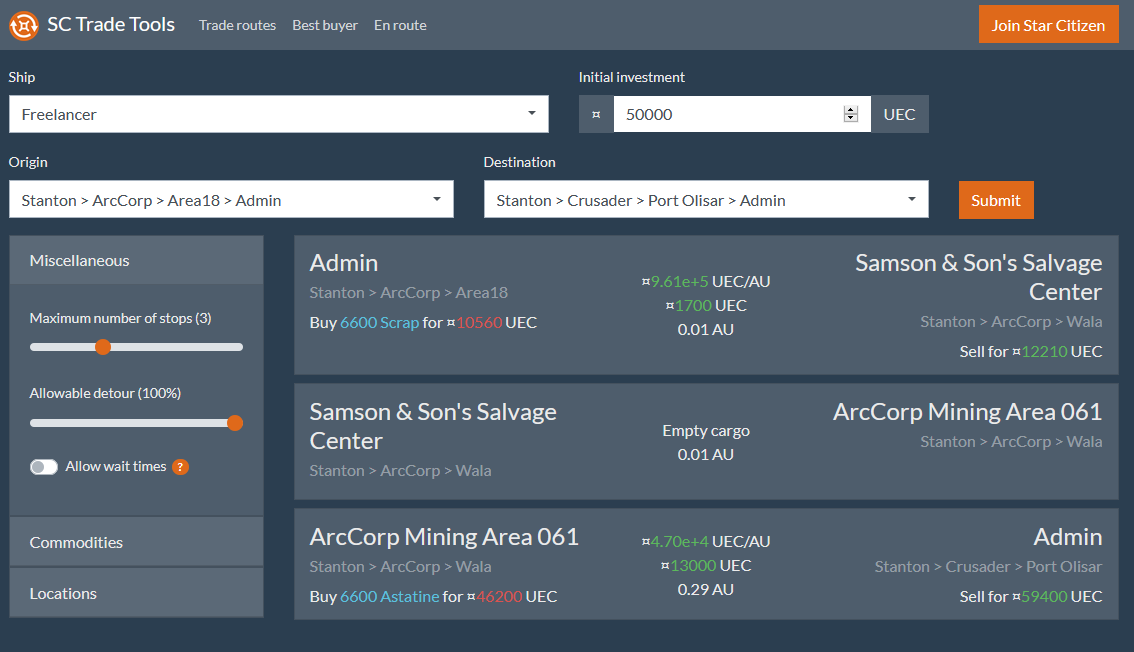
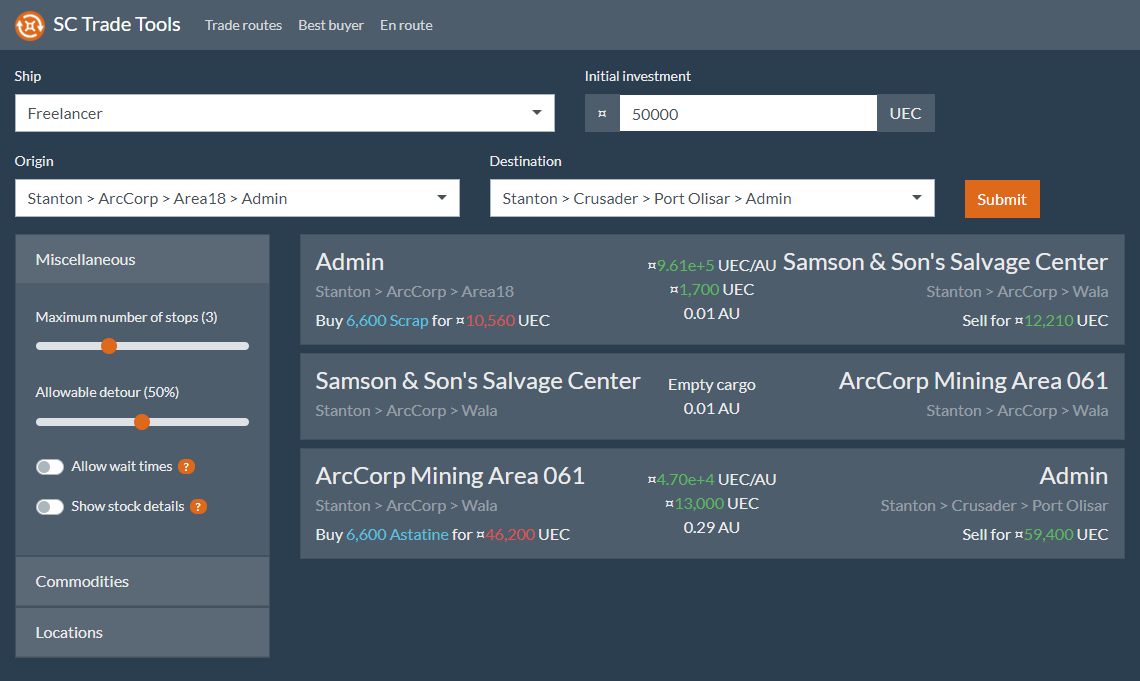
1.4.0 (#21)

diff --git a/CHANGELOG.md b/CHANGELOG.md
@@ -1,4 +1,33 @@
 # SC Trade Tools
+![](https://sc-trade.tools/assets/home.PNG)
+
+## 1.4.0
+### Features
+- Update data for Star Citizen 3.10
+- #7 Add toggle to display stock details in results
+- Improve results ordering
+  - When multiple trades yield the same profit, the shortest routes will now be first
+- Use proper popovers for help icons
+
+### Bugs
+- Remove duplicate shops
+  - e.g. "Stanton > Crusader > Port Olisar > Admin"
+- Fix an issue where using the "Maximum commodity volume" filter would prevent the pathing algorithm from using empty cargo runs
+- Fix POST requests using `www.` failing with 403 "Invalid CORS request"
+- Fix alt text for images in /home
+
+### Other
+- #11 Better indicate when no results are returned
+- Improve navigation of the form facets (filter menu)
+- Improve display of numbers
+- Add content to /home
+  - Sponsors (see the [project's Patreon](https://www.patreon.com/sc_trade_tools))
+  - About information and use cases
+- Add terms & conditions
+- Add privacy policy
+- Rework footer
+- Remove "Join Star Citizen" button in the navbar
+
 ## 1.3.1
 ### Features
 - Add individual shops to the locations dropdown in the facets
